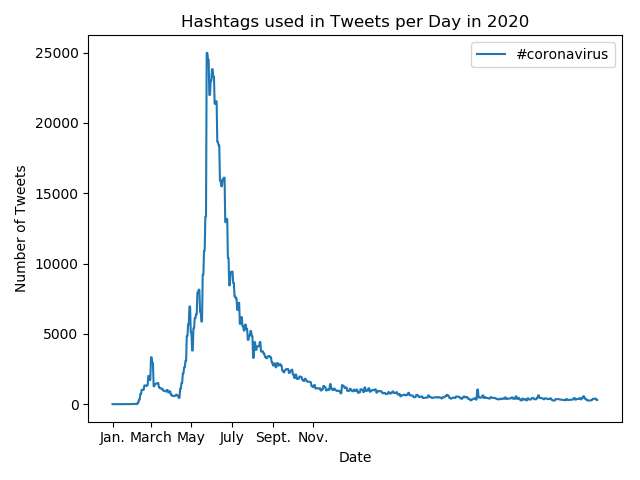
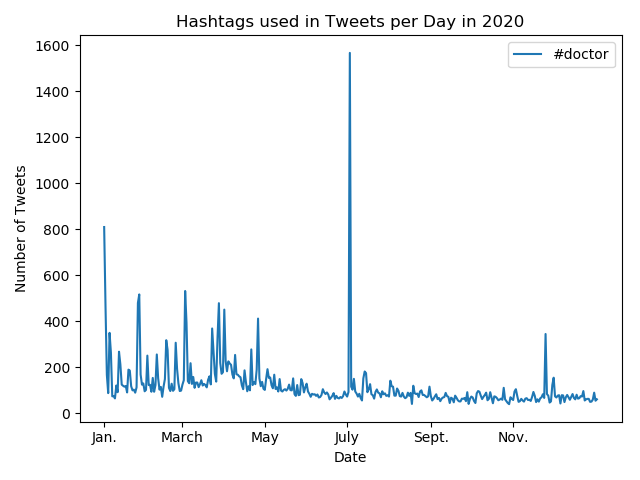
idk

diff --git a/src/alternative_reduce.py b/src/alternative_reduce.py
@@ -4,8 +4,9 @@
 import argparse
 parser = argparse.ArgumentParser()
 parser.add_argument('--input_paths', nargs='+', required=True)
-parser.add_argument('--keys', required=True)
+parser.add_argument('--keys', nargs='+', required=True)
 args = parser.parse_args()
+print(args.keys)
 
 # imports
 import json
@@ -15,11 +16,11 @@ matplotlib.use('Agg')
 import matplotlib.pyplot as plt
 import numpy as np
 
-for key in args.keys.split():
+for key in args.keys:
     sorted(args.input_paths)
     yaxis = []
     total = defaultdict(lambda: Counter())
-    error = 0
+    errors = 0
     for path in args.input_paths:
         with open(path) as f:
             temp = json.load(f)
@@ -32,7 +33,7 @@ for key in args.keys.split():
             yaxis.append(number)
     plt.plot(np.arange(732), yaxis, label=key)
 plt.ylabel('Number of Tweets')
-months = ['Jan.', "March", "May", "July", "Sept.", "Nov."]
+months = ["Jan.", "March", "May", "July", "Sept.", "Nov."]
 dates = [0, 58, 119, 180, 242, 303]
 plt.xticks(dates, months)
 plt.xlabel('Date')

diff --git a/README.md b/README.md
@@ -26,10 +26,10 @@ I follow the [MapReduce](https://en.wikipedia.org/wiki/MapReduce) procedure to a
 
 **Plots**
 After analyzing the tweets, I then created plots using the lang and country results for the following hashtags: #coronavirus and #코로나바이러스. 
-<img src=reduced.country#coronavirus.png width=100% />
-<img src=reduced.country#코로나바이러스.png width=100%>
-<img src=reduced.lang#coronavirus.png width=100%>
-<img src=reduced.lang#코로나바이러스.png width=100%>
+<img src=reduced.country\#coronavirus.png width=100% />
+<img src=reduced.country\#코로나바이러스.png width=100%>
+<img src=reduced.lang\#coronavirus.png width=100%>
+<img src=reduced.lang\#코로나바이러스.png width=100%>
 I also used an alternative way to analyze how different hashtags have changed throughout the year 2020.
 <img src=alternative.png width=100% />
 
